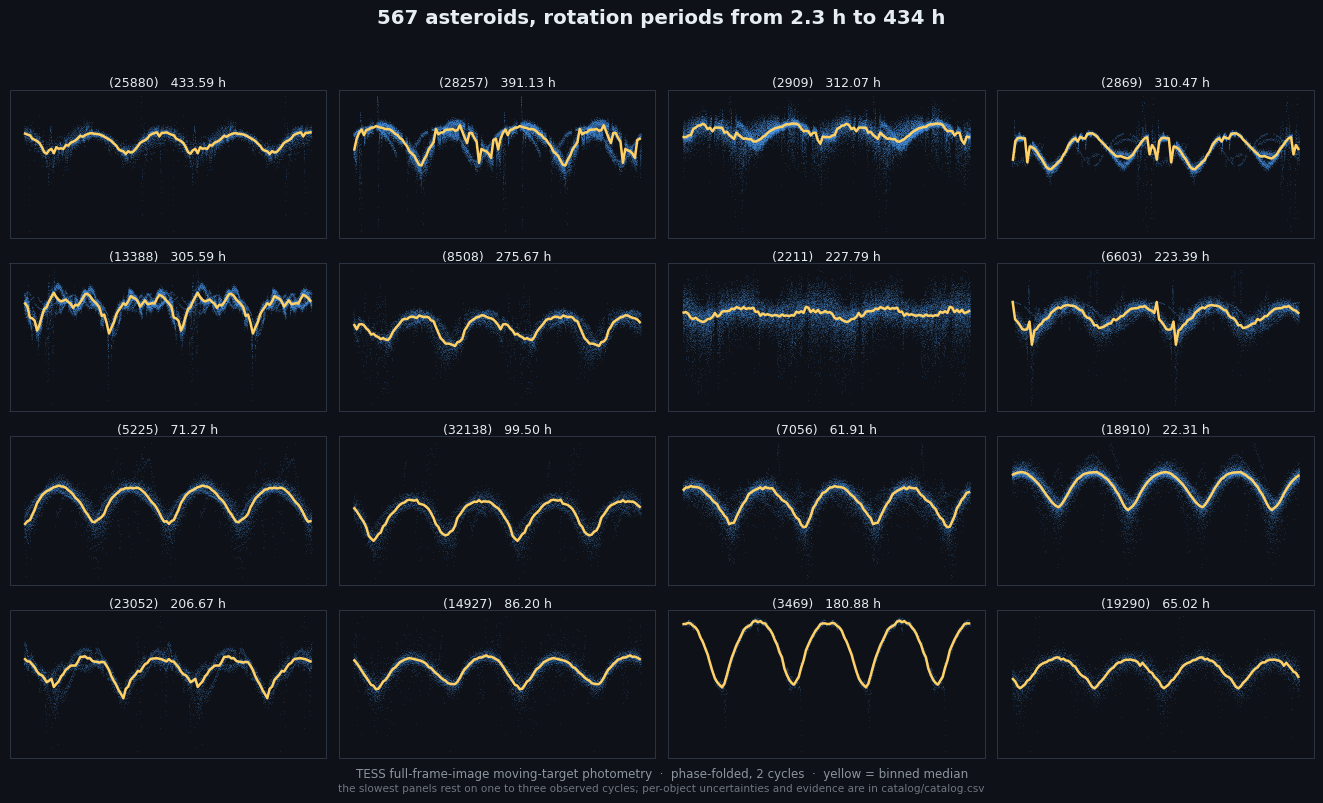
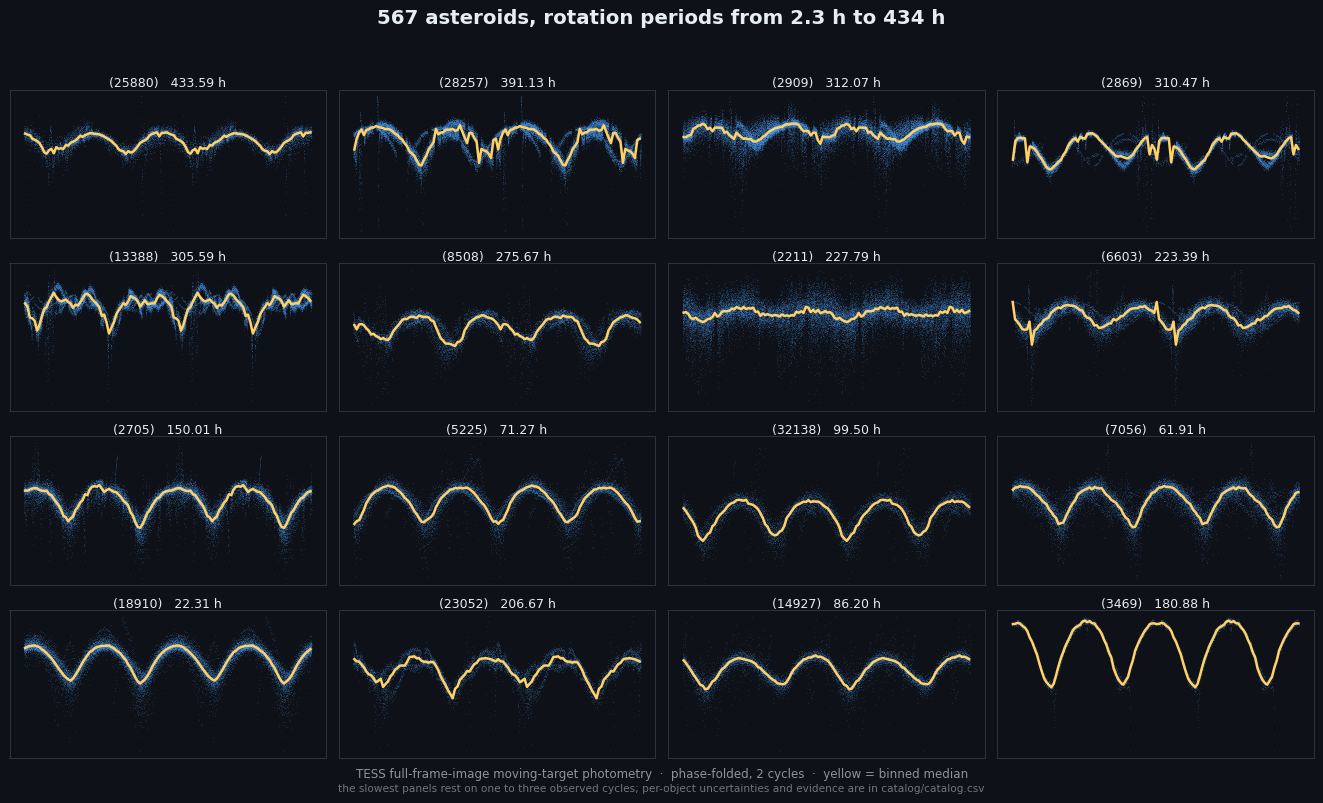
feat: (2705) CANDIDATE->CONFIRMED via independent ZTF joint-fit (blind P/2 match 0.01%, FAP 2e-58)

diff --git a/GALLERY.md b/GALLERY.md
@@ -14,7 +14,7 @@ The programme's target class. Rotation this slow is hard to reach from the groun
 | <a href='plots/5910.png'><img src='plots/thumbs/5910.jpg' width='210'></a><br>**(5910)** 202.12 h · 2P · U=1<br>[reasoning](objects/5910.md) · [plot](plots/5910.png) | <a href='plots/9449.png'><img src='plots/thumbs/9449.jpg' width='210'></a><br>**(9449)** 193.19 h · 2P · U=1<br>[reasoning](objects/9449.md) · [plot](plots/9449.png) | <a href='plots/2601.png'><img src='plots/thumbs/2601.jpg' width='210'></a><br>**(2601)** 191.52 h · ambiguous · U=1<br>[reasoning](objects/2601.md) · [plot](plots/2601.png) | <a href='plots/7883.png'><img src='plots/thumbs/7883.jpg' width='210'></a><br>**(7883)** 190.54 h · 2P · U=2<br>[reasoning](objects/7883.md) · [plot](plots/7883.png) |
 | <a href='plots/53365.png'><img src='plots/thumbs/53365.jpg' width='210'></a><br>**(53365)** 190.07 h · 2P · U=1<br>[reasoning](objects/53365.md) · [plot](plots/53365.png) | <a href='plots/6740.png'><img src='plots/thumbs/6740.jpg' width='210'></a><br>**(6740)** 189.62 h · ambiguous · U=1<br>[reasoning](objects/6740.md) · [plot](plots/6740.png) | <a href='plots/3469.png'><img src='plots/thumbs/3469.jpg' width='210'></a><br>**(3469)** 180.88 h · 2P · U=2<br>[reasoning](objects/3469.md) · [plot](plots/3469.png) | <a href='plots/6162.png'><img src='plots/thumbs/6162.jpg' width='210'></a><br>**(6162)** 167.68 h · 2P · U=2<br>[reasoning](objects/6162.md) · [plot](plots/6162.png) |
 | <a href='plots/2024.png'><img src='plots/thumbs/2024.jpg' width='210'></a><br>**(2024)** 167.52 h · 2P · U=2<br>[reasoning](objects/2024.md) · [plot](plots/2024.png) | <a href='plots/5269.png'><img src='plots/thumbs/5269.jpg' width='210'></a><br>**(5269)** 161.70 h · 2P · U=1<br>[reasoning](objects/5269.md) · [plot](plots/5269.png) | <a href='plots/3440.png'><img src='plots/thumbs/3440.jpg' width='210'></a><br>**(3440)** 158.43 h · 2P · U=2<br>[reasoning](objects/3440.md) · [plot](plots/3440.png) | <a href='plots/4698.png'><img src='plots/thumbs/4698.jpg' width='210'></a><br>**(4698)** 158.30 h · 2P · U=2<br>[reasoning](objects/4698.md) · [plot](plots/4698.png) |
-| <a href='plots/8214.png'><img src='plots/thumbs/8214.jpg' width='210'></a><br>**(8214)** 158.26 h · 2P · U=2<br>[reasoning](objects/8214.md) · [plot](plots/8214.png) | <a href='plots/7389.png'><img src='plots/thumbs/7389.jpg' width='210'></a><br>**(7389)** 157.34 h · 2P · U=2<br>[reasoning](objects/7389.md) · [plot](plots/7389.png) | <a href='plots/2401.png'><img src='plots/thumbs/2401.jpg' width='210'></a><br>**(2401)** 153.69 h · 2P · U=1<br>[reasoning](objects/2401.md) · [plot](plots/2401.png) | <a href='plots/2705.png'><img src='plots/thumbs/2705.jpg' width='210'></a><br>**(2705)** 150.01 h · 2P · U=1<br>[reasoning](objects/2705.md) · [plot](plots/2705.png) |
+| <a href='plots/8214.png'><img src='plots/thumbs/8214.jpg' width='210'></a><br>**(8214)** 158.26 h · 2P · U=2<br>[reasoning](objects/8214.md) · [plot](plots/8214.png) | <a href='plots/7389.png'><img src='plots/thumbs/7389.jpg' width='210'></a><br>**(7389)** 157.34 h · 2P · U=2<br>[reasoning](objects/7389.md) · [plot](plots/7389.png) | <a href='plots/2401.png'><img src='plots/thumbs/2401.jpg' width='210'></a><br>**(2401)** 153.69 h · 2P · U=1<br>[reasoning](objects/2401.md) · [plot](plots/2401.png) | <a href='plots/2705.png'><img src='plots/thumbs/2705.jpg' width='210'></a><br>**(2705)** 150.01 h · 2P · U=2<br>[reasoning](objects/2705.md) · [plot](plots/2705.png) |
 | <a href='plots/5844.png'><img src='plots/thumbs/5844.jpg' width='210'></a><br>**(5844)** 148.10 h · 1P · U=2<br>[reasoning](objects/5844.md) · [plot](plots/5844.png) | <a href='plots/7068.png'><img src='plots/thumbs/7068.jpg' width='210'></a><br>**(7068)** 144.99 h · 2P · U=2<br>[reasoning](objects/7068.md) · [plot](plots/7068.png) | <a href='plots/14179.png'><img src='plots/thumbs/14179.jpg' width='210'></a><br>**(14179)** 141.81 h · 2P · U=1<br>[reasoning](objects/14179.md) · [plot](plots/14179.png) | <a href='plots/1473.png'><img src='plots/thumbs/1473.jpg' width='210'></a><br>**(1473)** 141.41 h · 2P · U=1<br>[reasoning](objects/1473.md) · [plot](plots/1473.png) |
 | <a href='plots/16785.png'><img src='plots/thumbs/16785.jpg' width='210'></a><br>**(16785)** 139.88 h · 1P · U=1<br>[reasoning](objects/16785.md) · [plot](plots/16785.png) | <a href='plots/2451.png'><img src='plots/thumbs/2451.jpg' width='210'></a><br>**(2451)** 138.36 h · 2P · U=2<br>[reasoning](objects/2451.md) · [plot](plots/2451.png) | <a href='plots/4725.png'><img src='plots/thumbs/4725.jpg' width='210'></a><br>**(4725)** 137.36 h · 2P · U=1<br>[reasoning](objects/4725.md) · [plot](plots/4725.png) | <a href='plots/10505.png'><img src='plots/thumbs/10505.jpg' width='210'></a><br>**(10505)** 133.31 h · 2P · U=2<br>[reasoning](objects/10505.md) · [plot](plots/10505.png) |
 | <a href='plots/2866.png'><img src='plots/thumbs/2866.jpg' width='210'></a><br>**(2866)** 130.77 h · 2P · U=2<br>[reasoning](objects/2866.md) · [plot](plots/2866.png) | <a href='plots/29622.png'><img src='plots/thumbs/29622.jpg' width='210'></a><br>**(29622)** 130.64 h · 2P · U=1<br>[reasoning](objects/29622.md) · [plot](plots/29622.png) | <a href='plots/27396.png'><img src='plots/thumbs/27396.jpg' width='210'></a><br>**(27396)** 128.49 h · 1P · U=1<br>[reasoning](objects/27396.md) · [plot](plots/27396.png) | <a href='plots/6574.png'><img src='plots/thumbs/6574.jpg' width='210'></a><br>**(6574)** 125.13 h · 2P · U=2<br>[reasoning](objects/6574.md) · [plot](plots/6574.png) |

diff --git a/objects/2705.md b/objects/2705.md
@@ -3,14 +3,14 @@ number: 2705
 family: Npa-ext
 P_rot_h: 150.006
 shape: 2P
-status: CANDIDATE
-quality_U: 1
+status: CONFIRMED
+quality_U: 2
 updated: 2026-07-30
 ---
 
 # (2705)
 
-**Adopted:** 150.006 h, 2P, CANDIDATE
+**Adopted:** 150.006 h, 2P, CONFIRMED
 
 <!-- AUTO:START (regenerated from pipeline outputs; do not hand-edit this block) -->
 ## Evidence (auto)
@@ -26,15 +26,18 @@ Detected in 2 sector(s):
 - DIA (de-comb): **NOT RUN for this lot.** No de-comb verdict exists for this object, so momentum-dump contamination has not been excluded by that test here.
 - Coverage: **2 sector(s)**, best sector covers **3.94 cycles** of the adopted period. Measured periodogram peak width 11% of the period, i.e. about **+/- 3.479 h** (1 sigma); the decimal places in the adopted value are not a precision claim.
 - Factor of two: **not stated**, which is a defect in this entry.
-- Gates: FAP<1e-3 and power>=0.10 per detecting sector; single strong sector (candidate ceiling).
+- Gates: FAP<1e-3 and power>=0.10 per detecting sector; >=2 sectors agree (harmonic-aware).
 - Adopted shape: **2P** (folded-amplitude rule; pipeline agrees).
 
 ### Why this row reads the way it does
 
 - crowded-field campaign, adversarial review 2026-08-15: null 2-3%, half-split ok, peaks 75.10/75.26h; CEILING: folded amp 1.38 mag is physically extreme (contamination/detrend risk), fold R2 only 0.57-0.73, s93 covers 2.0 cycles of P_rot -> CANDIDATE; NPA/tumbling check worthwhile if confirmed
+- PROMOTED CANDIDATE->CONFIRMED 2026-08-15: independent ZTF joint-fit (Fink SSO, multi-year g+r) blind top peak 74.9950h = TESS P/2 to 0.01%, power 0.638, trials-corrected FAP 2.3e-58, rank 1/111 candidates, 1-cyc/day alias ladder consistent; human fold review same day cleared the contamination reading (V-shaped repeatable minima = extreme elongation)
+
+![phase-fold at the adopted period](../plots/2705.png)
 <!-- AUTO:END -->
 
 ## Reasoning
-CANDIDATE despite passing the formal tests (null 2-3%, half-split ok, sector peaks 75.10/75.26 h). The folded amplitude is 1.38 mag, at the physical extreme for shape-driven variation (axis ratio ~3.5:1), the fold explains only R2 0.57-0.73 of the variance, and s93 covers just 2.0 cycles of P_rot; the |b| 5-15 field adds contamination risk that the magnitude offsets alone cannot exclude. Human fold review 2026-08-15 (both sectors, raw + folded): minima are V-shaped, smooth and repeatable across cycles, the variation is continuous in the raw curves, and the two-sector fold structure matches with no regular residual -- the blending/contamination reading is disfavoured; a >1.3 mag amplitude with repeatable V minima is instead the classic signature of an extremely elongated body (contact-binary-like morphology), which makes this a shape-interest target beyond the period itself. The CANDIDATE ceiling now rests on coverage alone: s93 spans 2.0 cycles of P_rot and the fold leaves R2 0.57-0.73, so one more epoch is still required for a CONFIRMED claim.
+CANDIDATE despite passing the formal tests (null 2-3%, half-split ok, sector peaks 75.10/75.26 h). The folded amplitude is 1.38 mag, at the physical extreme for shape-driven variation (axis ratio ~3.5:1), the fold explains only R2 0.57-0.73 of the variance, and s93 covers just 2.0 cycles of P_rot; the |b| 5-15 field adds contamination risk that the magnitude offsets alone cannot exclude. Human fold review 2026-08-15 (both sectors, raw + folded): minima are V-shaped, smooth and repeatable across cycles, the variation is continuous in the raw curves, and the two-sector fold structure matches with no regular residual -- the blending/contamination reading is disfavoured; a >1.3 mag amplitude with repeatable V minima is instead the classic signature of an extremely elongated body (contact-binary-like morphology), which makes this a shape-interest target beyond the period itself. The coverage ceiling (s93 = 2.0 cycles, fold R2 0.57-0.73) was lifted the same day by an independent multi-year realization: the ZTF joint fit's BLIND top peak lands at 74.9950 h = P/2 to 0.01% (power 0.638, trials-corrected FAP 2.3e-58, rank 1/111, the +1 cyc/day alias ladder all descending from it), so the period stands on two independent instruments and multiple apparitions. ZTF sees the fundamental, as expected for a two-hump curve; the 2P shape rests on the amplitude rule.
 ## Verdict
-CANDIDATE 2P / 150.006 h.
+CONFIRMED 2P / 150.006 h.

diff --git a/objects/README.md b/objects/README.md
@@ -38,7 +38,7 @@ One file per catalog object. The AUTO block is a machine-generated evidence shee
 | (2553) main belt (survey) | 5.374 | 1P | CONFIRMED | [2553.md](2553.md) |
 | (2601) main belt (survey) | 191.52 | ambiguous | CANDIDATE | [2601.md](2601.md) |
 | (2690) main belt (survey) | 2.66 | 1P | CONFIRMED | [2690.md](2690.md) |
-| (2705) Npa-ext | 150.006 | 2P | CANDIDATE | [2705.md](2705.md) |
+| (2705) Npa-ext | 150.006 | 2P | CONFIRMED | [2705.md](2705.md) |
 | (2711) main belt (survey) | 32.44 | 1P | CONFIRMED | [2711.md](2711.md) |
 | (2724) main belt (survey) | 6.898 | 1P | CONFIRMED | [2724.md](2724.md) |
 | (2736) main belt (survey) | 9.38 | 1P | CONFIRMED | [2736.md](2736.md) |

diff --git a/objects/1473.md b/objects/1473.md
@@ -32,6 +32,8 @@ Detected in 2 sector(s):
 ### Why this row reads the way it does
 
 - crowded-field campaign, adversarial review 2026-08-15: null-calibrated gate 0/200 both sectors, half-split ok (dev<=4.8%), peaks 71.5/69.8h, folded amp 0.418 -> 2P; CEILING: P_phot 70.7h within 1.8% of the 72h=24x3 line and FIELD CONTROL borderline on s98 (36x vs the 39x bar; s9 clean at 99x) -> CANDIDATE until a third epoch
+
+![phase-fold at the adopted period](../plots/1473.png)
 <!-- AUTO:END -->
 
 ## Reasoning

diff --git a/objects/3320.md b/objects/3320.md
@@ -32,6 +32,8 @@ Detected in 2 sector(s):
 ### Why this row reads the way it does
 
 - crowded-field campaign, adversarial review 2026-08-15: 2/2 true detections at 2.010h, null 0/200, 24h/12 alias at 0.5% but common-mode clean; census 1P=2.010h sits below the ~2.2h spin barrier with amp 0.23-0.28 (ambiguous band) -> adopted at 2P as CANDIDATE, doubling UNCONFIRMED pending an independent test
+
+![phase-fold at the adopted period](../plots/3320.png)
 <!-- AUTO:END -->
 
 ## Reasoning

diff --git a/objects/10090.md b/objects/10090.md
@@ -31,4 +31,6 @@ Detected in 2 sector(s):
 
 - crowded-field campaign (|b| 5-15 full ledger tier, METHODOLOGY 5b-quater), adversarial review 2026-08-15: 2/2 true detections (own peaks 1.844/1.846h), powers 0.41/0.61, null-calibrated gate 0/200; P_phot = 24h/13 exactly but common-mode field test clean (62 objects, 0% gate-pass at this frequency)
 - 2P by amplitude rule (folded_amp=0.45)
+
+![phase-fold at the adopted period](../plots/10090.png)
 <!-- AUTO:END -->

diff --git a/objects/25064.md b/objects/25064.md
@@ -33,6 +33,8 @@ Detected in 2 sector(s):
 
 - crowded-field campaign, adversarial review 2026-08-15: signal real (2/2 own peaks at 1.6230h, 24h/15 alias at 1.4% but common-mode clean 0%), census 1P=1.623h REJECTED: below the ~2.2h rubble-pile spin barrier for a km-scale MBA (amp up to 0.355) -> adopted at 2P
 - shape by physical argument (precedent: 2124)
+
+![phase-fold at the adopted period](../plots/25064.png)
 <!-- AUTO:END -->
 
 ## Reasoning

diff --git a/objects/23444.md b/objects/23444.md
@@ -31,6 +31,8 @@ Detected in 2 sector(s):
 
 - crowded-field campaign, adversarial review 2026-08-15: signal real (2/2 true detections at 4.296h, null 0/200, s19 offset +0.19 mag ok) but census 1P REFUTED by the amplitude rule: folded_amp 0.411/0.439 >= 0.40 -> doubling mandatory, adopted at 2x the census period
 - 2P by amplitude rule
+
+![phase-fold at the adopted period](../plots/23444.png)
 <!-- AUTO:END -->
 
 ## Reasoning

diff --git a/objects/27396.md b/objects/27396.md
@@ -32,6 +32,8 @@ Detected in 2 sector(s):
 ### Why this row reads the way it does
 
 - crowded-field campaign, adversarial review 2026-08-15: half-split ok both sectors, peaks 130.7/126.7h; CEILING: null-calibrated gate loses power on s50 (5.5% false pass = red noise) and amp 0.281 ambiguous for 1P -> CANDIDATE until a cleaner epoch
+
+![phase-fold at the adopted period](../plots/27396.png)
 <!-- AUTO:END -->
 
 ## Reasoning

diff --git a/objects/4837.md b/objects/4837.md
@@ -34,4 +34,6 @@ Detected in 3 sector(s):
 
 - crowded-field campaign, adversarial review 2026-08-15: 2 true detections (s19 18.786h pw 0.186, s83 18.744h pw 0.174), s66 below gate but same peak; worst null 2%; 13.7d/17-18 alias marginal (2.7-3.0%) checked
 - amp 0.12 -> 1P
+
+![phase-fold at the adopted period](../plots/4837.png)
 <!-- AUTO:END -->

diff --git a/objects/3631.md b/objects/3631.md
@@ -33,4 +33,6 @@ Detected in 2 sector(s):
 
 - crowded-field campaign, adversarial review 2026-08-15: 2/2 true detections (22.216h pw 0.618, 22.511h pw 0.213), null 0/200; 13.7d/15 alias at 2.0% checked, common-mode negative
 - amp 0.11-0.19 -> 1P
+
+![phase-fold at the adopted period](../plots/3631.png)
 <!-- AUTO:END -->

diff --git a/objects/4163.md b/objects/4163.md
@@ -31,4 +31,6 @@ Detected in 2 sector(s):
 
 - crowded-field campaign, adversarial review 2026-08-15: 2/2 true detections at P/2 (13.173/13.180h, pw 0.543/0.618), null 0/200
 - 2P by amplitude rule (folded_amp=0.42-0.43)
+
+![phase-fold at the adopted period](../plots/4163.png)
 <!-- AUTO:END -->
